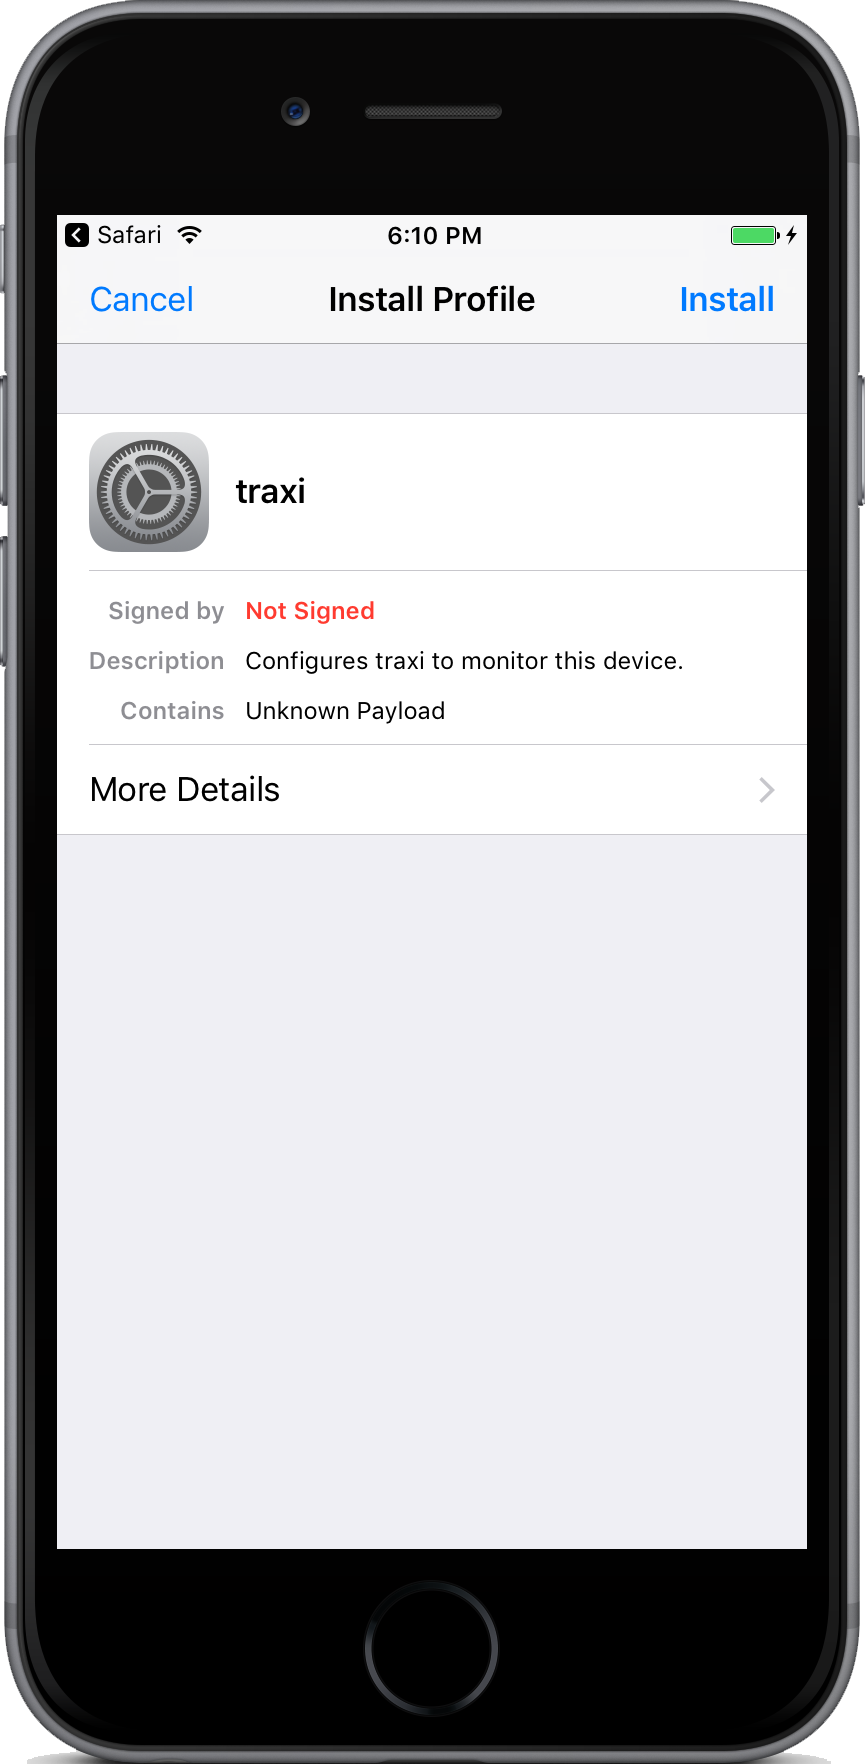
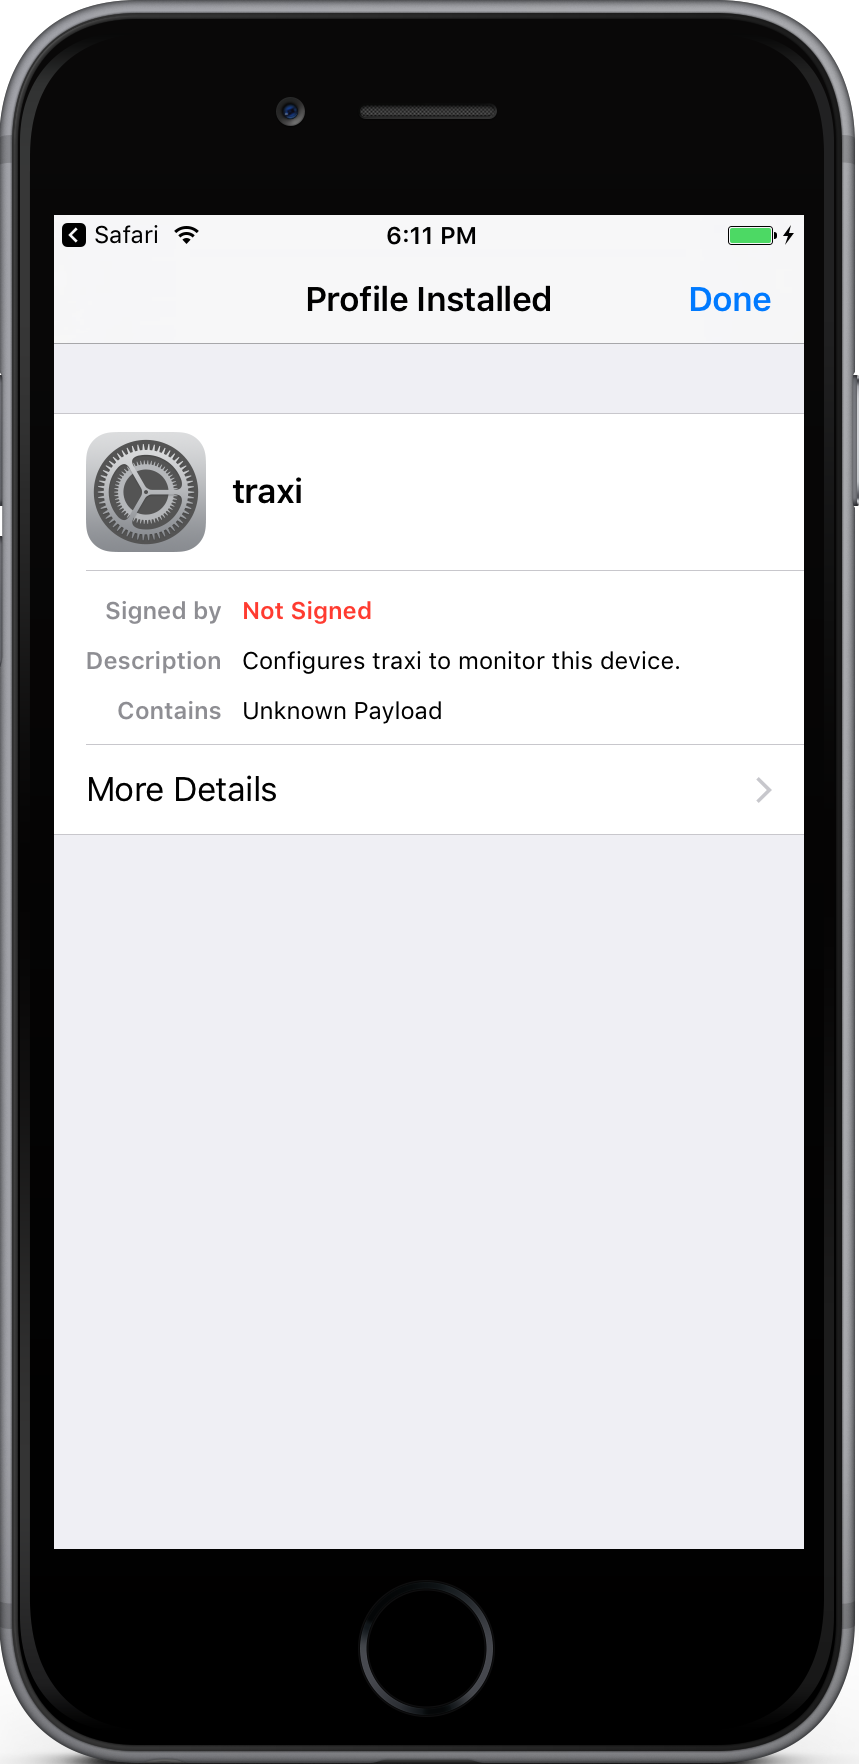
Finish Walkthrough.

diff --git a/App/Components/Instructions.js b/App/Components/Instructions.js
@@ -22,9 +22,10 @@ const IOS_INSTRUCTIONS = [
   '',
   '',
   '',
-  `Tap the "Install" button in the top right`,
-  `Tap the "Install" button again (don't worry, this is normal)`,
-  `Tap "Install" for the last time (promise)`,
+  '',
+  '',
+  `Tap the "Install"\n button in the top right`,
+  `Tap the "Install"\n button again`,
   `Tap "Done"`,
   '',
   '',
@@ -65,10 +66,14 @@ const IOS_IMAGES = [
   {},
   {},
   {},
+  {},
+  {},
+  require('../Images/iphone-step-1.png'),
+  require('../Images/iphone-step-2.png'),
   require('../Images/iphone-step-3.png'),
-  require('../Images/iphone-step-4.png'),
-  require('../Images/iphone-step-5.png'),
-  require('../Images/iphone-step-6.png'),
+  {},
+  {},
+  {},
 ];
 
 const ANDROID_IMAGES = [
@@ -126,7 +131,7 @@ const INSTRUCTION_STYLES = StyleSheet.create({
     width,
     height,
     left: -16,
-    marginTop: -(height / 2),
+    marginTop: -(height / 2) + 32,
     top: height / 2,
   },
 });

diff --git a/App/Containers/Walkthrough.js b/App/Containers/Walkthrough.js
@@ -15,12 +15,7 @@ import { TRAXI_BLUE } from '../Constants/Colours';
 import { firstName } from '../Utils';
 
 const { width } = Dimensions.get('window');
-const NUMBER_OF_STEPS = {
-  unknown: 7,
-  iPhone: 7,
-  Android: 8,
-  iPad: 7,
-};
+const NUMBER_OF_STEPS = 8;
 
 export const mapStateToProps = state => ({
   step: state.step,
@@ -92,8 +87,7 @@ const getNextComponent = (step, nextStep, kid, parentName) => {
     return <ShowPIN setupID={setupID} kidName={kidName} />;
   }
 
-  const lastStep = NUMBER_OF_STEPS[deviceType];
-  if (step === lastStep) {
+  if (step === NUMBER_OF_STEPS) {
     return (
       <WaitingForDevice
         avatarURL={avatarURL}

diff --git a/App/Actions/WatchDevice.js b/App/Actions/WatchDevice.js
@@ -13,7 +13,6 @@ const watchDevice = () => (dispatch, getState) => {
       'value',
       data => {
         const updatedKid = data.val();
-        dispatch(deviceUpdated(updatedKid));
 
         if (updatedKid.status === 'INSTALLED') {
           const { profile } = getState();
@@ -27,6 +26,8 @@ const watchDevice = () => (dispatch, getState) => {
             resolve();
             firebase.off('value');
           });
+        } else {
+          dispatch(deviceUpdated(updatedKid));
         }
       },
       e => {

diff --git a/App/Containers/ParentApp.js b/App/Containers/ParentApp.js
@@ -45,9 +45,12 @@ class ParentApp extends React.Component {
 
     const INITIAL_STATE = {
       loading: false,
-      profile,
+      profile: {
+        name: 'Vladimir Putin',
+        UUID: 'abc-123',
+      },
       contacts: [],
-      step: 0, // FIXME: !!! CHANGE!!!
+      step: 5, // FIXME: !!! CHANGE!!!
       kidSuggestions: [],
       parentName: 'Vladimir',
       kids: kids || [],

diff --git a/App/Reducers/ParentAppReducer.js b/App/Reducers/ParentAppReducer.js
@@ -97,6 +97,7 @@ const ParentAppReducer = (state = {}, action = {}) => {
       const { selectedKid } = action;
       const { step } = state;
 
+      // Only advance through the walkthrough if we know the deviceType.
       const newStep = selectedKid.deviceType === 'unknown'
         ? step
         : step + 1;

diff --git a/App/Containers/SetImage.js b/App/Containers/SetImage.js
@@ -39,9 +39,9 @@ export const selectImage = pickImage => dispatch => {
 
   if (!pickImage) {
     dispatch(selectKidImage('http://i.imgur.com/ZrwsRFD.png'));
+    dispatch(NEXT_STEP);
 
     return dispatch(setupKid()).then(() => {
-      dispatch(NEXT_STEP);
       dispatch(watchDevice());
     });
   }
